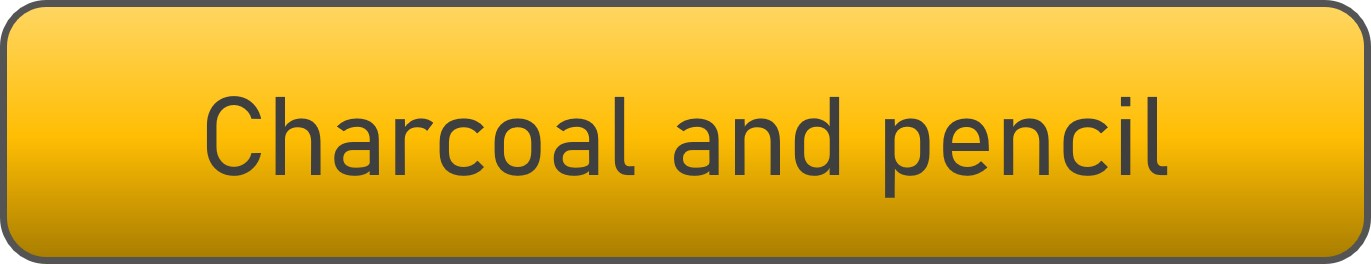
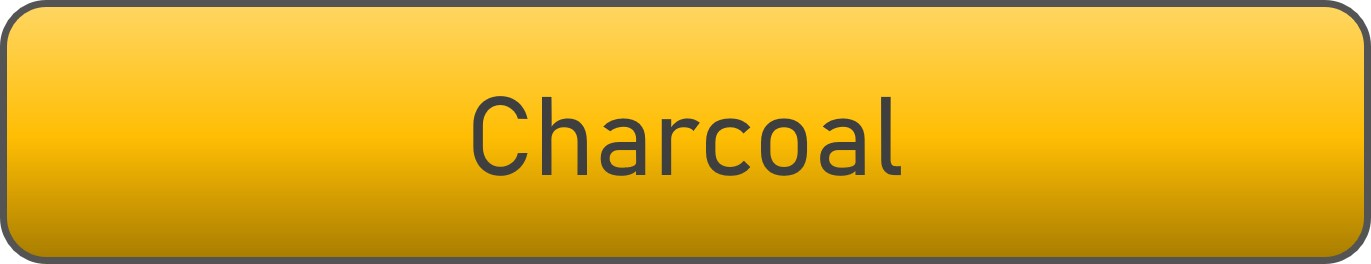
added all artworks on paper, ceramics and resorting sub sections

Changed region(s): [[0.1225, 0.3636, 0.8578, 0.7576]]

diff --git a/index.html b/index.html
@@ -35,7 +35,7 @@
 							</h1>
 						</header>
 						<p>
-						Where does a child drawn to solving puzzles and sketching ideas end up?
+						Where does a child drawn to solving puzzles and sketching end up?
 						<br /><br />
 						My career path has taken me through the travel and gaming sectors, using data to support smarter decisions and better understand customers. After nearly a decade in analytics, I’ve equipped myself with a wide range of tools to tackle diverse challenges through data.
 						<br /><br />
@@ -398,10 +398,8 @@ Overall, this thesis makes a significant contribution to the field of chess rese
 							<summary class="summary-h2"> 
 								On paper							
 							</summary>
-						</header> 	
-						<h2 style="color: brown;">Wok in Progress! </h2>
-						<p>Sorry, this section is currently empty.</p>
-						<div class="row">
+						</header> 
+						<div class="row" >
 						<!-- MODAL BOX 1.1 -->
 						<article class="col-6 col-12-xsmall work-item">
 								<div id ='hoverimage'>
@@ -409,7 +407,20 @@ Overall, this thesis makes a significant contribution to the field of chess rese
 							<!-- Modal -->
 								<div id="modal1.1" class="modal">
 									<div class="modal-content"> <br>
-										<h1> Here a collection of my charcoal drawings
+										<h1>Some charcoal drawings <span class="close" onclick="closeAllModal()">&times;</span></h1>
+										<img style="max-height: 100%; max-width: 100%; object-fit: contain; display: block; margin: auto;" src="images/on paper/charcoal/1.jpeg" alt="" /><br>
+										<img style="max-height: 100%; max-width: 100%; object-fit: contain; display: block; margin: auto;" src="images/on paper/charcoal/2.jpeg" alt="" /><br>
+										<img style="max-height: 100%; max-width: 100%; object-fit: contain; display: block; margin: auto;" src="images/on paper/charcoal/3.jpeg" alt="" /><br>
+										<img style="max-height: 100%; max-width: 100%; object-fit: contain; display: block; margin: auto;" src="images/on paper/charcoal/4.jpeg" alt="" /><br>
+										<img style="max-height: 100%; max-width: 100%; object-fit: contain; display: block; margin: auto;" src="images/on paper/charcoal/5.jpeg" alt="" /><br>
+										<img style="max-height: 100%; max-width: 100%; object-fit: contain; display: block; margin: auto;" src="images/on paper/charcoal/6.jpeg" alt="" /><br>
+										<img style="max-height: 100%; max-width: 100%; object-fit: contain; display: block; margin: auto;" src="images/on paper/charcoal/7.jpeg" alt="" /><br>
+										<img style="max-height: 100%; max-width: 100%; object-fit: contain; display: block; margin: auto;" src="images/on paper/charcoal/8.jpeg" alt="" /><br>
+										<img style="max-height: 100%; max-width: 100%; object-fit: contain; display: block; margin: auto;" src="images/on paper/charcoal/9.jpeg" alt="" /><br>
+										<img style="max-height: 100%; max-width: 100%; object-fit: contain; display: block; margin: auto;" src="images/on paper/charcoal/10.jpeg" alt="" /><br>
+										<img style="max-height: 100%; max-width: 100%; object-fit: contain; display: block; margin: auto;" src="images/on paper/charcoal/11.jpeg" alt="" /><br>	
+										<p>A special thanks to my friend Metin who introduced me to this beautiful medium.</p><br><br>
+										<h1>Click on the X to close <span class="close" onclick="closeAllModal()">&times;</span></h1>	<br><br><br>						
 									</div>
 								</div>
 								</div>
@@ -422,7 +433,13 @@ Overall, this thesis makes a significant contribution to the field of chess rese
 							<!-- Modal -->
 								<div id="modal1.2" class="modal">
 									<div class="modal-content"> <br>
-										<h1> Here a collection of my calligrphy creations
+										<h1>Some charcoal drawings <span class="close" onclick="closeAllModal()">&times;</span></h1>
+										<img style="max-height: 100%; max-width: 100%; object-fit: contain; display: block; margin: auto;" src="images/on paper/Calligraphy/1.jpeg" alt="" /><br>
+										<img style="max-height: 100%; max-width: 100%; object-fit: contain; display: block; margin: auto;" src="images/on paper/Calligraphy/2.jpeg" alt="" /><br>
+										<img style="max-height: 100%; max-width: 100%; object-fit: contain; display: block; margin: auto;" src="images/on paper/Calligraphy/3.jpeg" alt="" /><br>
+										<img style="max-height: 100%; max-width: 100%; object-fit: contain; display: block; margin: auto;" src="images/on paper/Calligraphy/4.jpeg" alt="" /><br>
+										<p>Most calligraphy work is not with me now, I will upload more things soon.</p><br><br>
+										<h1>Click on the X to close <span class="close" onclick="closeAllModal()">&times;</span></h1>	<br><br><br>						
 									</div>
 								</div>
 								</div>
@@ -431,31 +448,60 @@ Overall, this thesis makes a significant contribution to the field of chess rese
 						<!-- MODAL BOX 1.3 -->
 						<article class="col-6 col-12-xsmall work-item">
 								<div id ='hoverimage'>
-								<img src="images/on paper/graffiti.jpg" alt="" class="modalThumbnail" id="main-image1" onclick="openModal('modal1.3')"/>
+								<img style="margin-top: -1em;"src="images/on paper/more.jpg" alt="" class="modalThumbnail" id="main-image1" onclick="openModal('modal1.3')"/>
 							<!-- Modal -->
 								<div id="modal1.3" class="modal">
 									<div class="modal-content"> <br>
-										<h1> Here a collection of my graffiti drawings
-									</div>
+										<h1>Other various drawings <span class="close" onclick="closeAllModal()">&times;</span></h1>
+										<img style="max-height: 100%; max-width: 100%; object-fit: contain; display: block; margin: auto;" src="images/on paper/comics/1.jpeg" alt="" /><br>
+										<img style="max-height: 100%; max-width: 100%; object-fit: contain; display: block; margin: auto;" src="images/on paper/comics/2.jpeg" alt="" /><br>
+										<p>More drawings coming up in this section.</p><br><br>
+										<h1>Click on the X to close <span class="close" onclick="closeAllModal()">&times;</span></h1>	<br><br><br>										
+										</div>
 								</div>
 								</div>
 							</article>
 
-						<!-- MODAL BOX 1.4 -->
-						<article class="col-6 col-12-xsmall work-item">
-								<div id ='hoverimage'>
-								<img src="images/on paper/more.jpg" alt="" class="modalThumbnail" id="main-image1" onclick="openModal('modal1.4')"/>
-							<!-- Modal -->
-								<div id="modal1.4" class="modal">
-									<div class="modal-content"> <br>
-										<h1> Here a collection of other drawings
-									</div>
-								</div>
-								</div>
-							</article>
-							</div>
 							</details>
+						
 
+						<!-- Woodwork and Ceramics -->
+						<details>
+							<summary class="summary-h2"> 
+								Ceramics						
+							</summary>
+						</header> 	
+						<div class="row">
+							<article class="col-6 col-12-xsmall work-item">
+								<div id ='hoverimage'>
+								<img src="images/ceramics/ceramics.jpg" alt="" class="modalThumbnail" id="main-image1" onclick="openModal('modal2.1')"/>
+							<!-- Modal -->
+								<div id="modal2.1" class="modal">
+									<div class="modal-content"> <br>
+										<h1>Some charcoal drawings <span class="close" onclick="closeAllModal()">&times;</span></h1>
+										<img style="max-height: 100%; max-width: 100%; object-fit: contain; display: block; margin: auto;" src="images/ceramics/ceramics/1.jpeg" alt="" /><br>
+										<img style="max-height: 100%; max-width: 100%; object-fit: contain; display: block; margin: auto;" src="images/ceramics/ceramics/2.jpeg" alt="" /><br>
+										<img style="max-height: 100%; max-width: 100%; object-fit: contain; display: block; margin: auto;" src="images/ceramics/ceramics/3.jpeg" alt="" /><br>
+										<img style="max-height: 100%; max-width: 100%; object-fit: contain; display: block; margin: auto;" src="images/ceramics/ceramics/4.jpeg" alt="" /><br>
+										<img style="max-height: 100%; max-width: 100%; object-fit: contain; display: block; margin: auto;" src="images/ceramics/ceramics/5.jpeg" alt="" /><br>
+										<img style="max-height: 100%; max-width: 100%; object-fit: contain; display: block; margin: auto;" src="images/ceramics/ceramics/6.jpeg" alt="" /><br>
+										<img style="max-height: 100%; max-width: 100%; object-fit: contain; display: block; margin: auto;" src="images/ceramics/ceramics/7.1.jpeg" alt="" /><br>										<img style="max-height: 100%; max-width: 100%; object-fit: contain; display: block; margin: auto;" src="images/ceramics/ceramics/1.jpeg" alt="" /><br>
+										<img style="max-height: 100%; max-width: 100%; object-fit: contain; display: block; margin: auto;" src="images/ceramics/ceramics/7.2.jpeg" alt="" /><br>
+										<img style="max-height: 100%; max-width: 100%; object-fit: contain; display: block; margin: auto;" src="images/ceramics/ceramics/8.1.jpeg" alt="" /><br>
+										<img style="max-height: 100%; max-width: 100%; object-fit: contain; display: block; margin: auto;" src="images/ceramics/ceramics/8.2.jpeg" alt="" /><br>
+										<img style="max-height: 100%; max-width: 100%; object-fit: contain; display: block; margin: auto;" src="images/ceramics/ceramics/9.1.jpeg" alt="" /><br>
+										<img style="max-height: 100%; max-width: 100%; object-fit: contain; display: block; margin: auto;" src="images/ceramics/ceramics/9.2.jpeg" alt="" /><br>
+										<img style="max-height: 100%; max-width: 100%; object-fit: contain; display: block; margin: auto;" src="images/ceramics/ceramics/9.3.png" alt="" /><br>
+										<img style="max-height: 100%; max-width: 100%; object-fit: contain; display: block; margin: auto;" src="images/ceramics/ceramics/9.4.jpeg" alt="" /><br><br>
+										<h1>Click on the X to close <span class="close" onclick="closeAllModal()">&times;</span></h1>	<br><br><br>						
+									</div>
+								</div>
+								</div>
+							</article>
+						
+						</details>
+
+						
 
 
 						<!-- Digital illustrations -->
@@ -468,79 +514,10 @@ Overall, this thesis makes a significant contribution to the field of chess rese
 						<p>Sorry, this section is currently empty.</p>
 
 						<div class="row">
-						<!-- MODAL BOX 1.1 
-						<article class="col-6 col-12-xsmall work-item">
-								<div id ='hoverimage'>
-								<img src="images/on paper/charcoal.jpg" alt="" class="modalThumbnail" id="main-image1" onclick="openModal('modal1.1')"/>
-							<!-- Modal 
-								<div id="modal1.1" class="modal">
-									<div class="modal-content"> <br>
-										<h1> Here a collection of my charcoal drawings
-									</div>
-								</div>
-								</div>
-							</article>
-
-						<!-- MODAL BOX 1.2 
-						<article class="col-6 col-12-xsmall work-item">
-								<div id ='hoverimage'>
-								<img src="images/on paper/calligraphy.jpg" alt="" class="modalThumbnail" id="main-image1" onclick="openModal('modal1.2')"/>
-							<!-- Modal 
-								<div id="modal1.2" class="modal">
-									<div class="modal-content"> <br>
-										<h1> Here a collection of my calligrphy
-									</div>
-								</div>
-								</div>
-							</article>-->
-							</details>
-
 						
-
-						<!-- Woodwork and Ceramics -->
-						<details>
-							<summary class="summary-h2"> 
-								Woodwork and Ceramics						
-							</summary>
-						</header> 	
-
-						<h2 style="color: brown;">Wok in Progress! </h2>
-						<p>Sorry, this section is currently empty.</p>
-						<div class="row">
-						<!-- MODAL BOX 1.1 
-						<article class="col-6 col-12-xsmall work-item">
-								<div id ='hoverimage'>
-								<img src="images/on paper/charcoal.jpg" alt="" class="modalThumbnail" id="main-image1" onclick="openModal('modal1.1')"/>
-							<!-- Modal 
-								<div id="modal1.1" class="modal">
-									<div class="modal-content"> <br>
-										<h1> Here a collection of my charcoal drawings
-									</div>
-								</div>
-								</div>
-							</article>
-
-						<!-- MODAL BOX 1.2 
-						<article class="col-6 col-12-xsmall work-item">
-								<div id ='hoverimage'>
-								<img src="images/on paper/calligraphy.jpg" alt="" class="modalThumbnail" id="main-image1" onclick="openModal('modal1.2')"/>
-							<!-- Modal 
-								<div id="modal1.2" class="modal">
-									<div class="modal-content"> <br>
-										<h1> Here a collection of my calligrphy
-									</div>
-								</div>
-								</div>
-							</article>-->
 						</details>
-
-
 						
 					</section>				
-
-
-
-					
 						
 						<section id="three">
 
